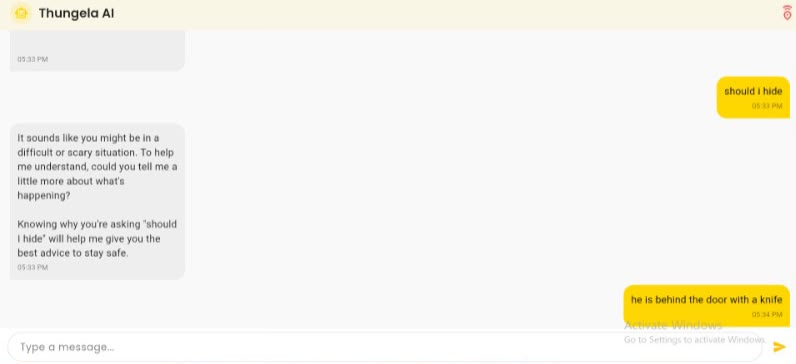
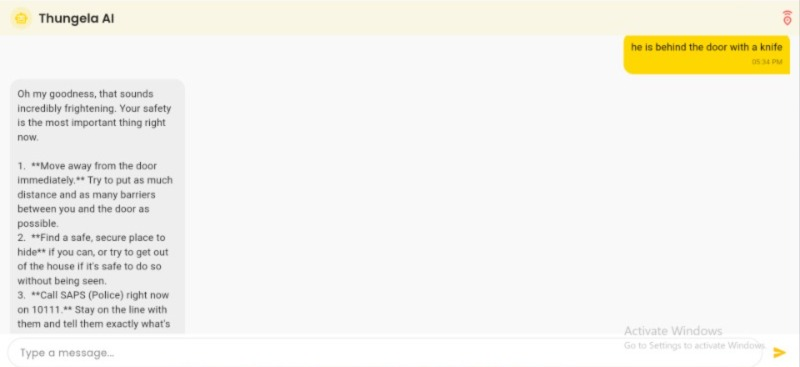
Add project image for AI Mental Health Chatbot in portfolio

diff --git a/index.html b/index.html
@@ -266,7 +266,9 @@ Building technology solutions that bridge software, data, and business — with 
         <div class="project-name">AI Mental Health Chatbot</div>
         <a href="https://github.com/lohann16/AiChatbot" target="_blank" class="project-link">↗ GitHub</a>
       </div>
-      <div class="project-image placeholder">Screenshot coming soon</div>
+      <div class="project-image">
+        <img src="images/Thungela.jpeg" alt="AI Mental Health Chatbot screenshot" loading="lazy">
+      </div>
       <p class="project-desc">
         A culturally localized AI-powered chatbot designed to support emotional wellness and provide context-aware guidance for South African users.
       </p>
